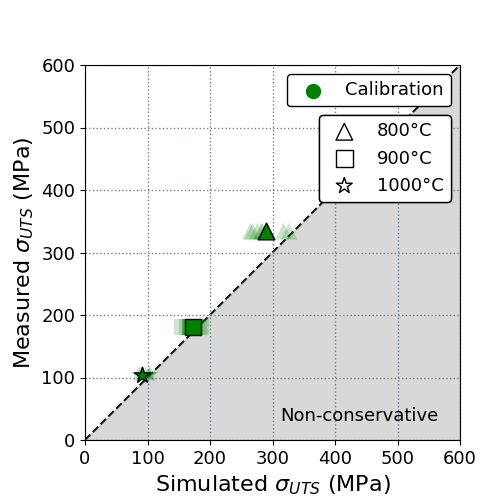
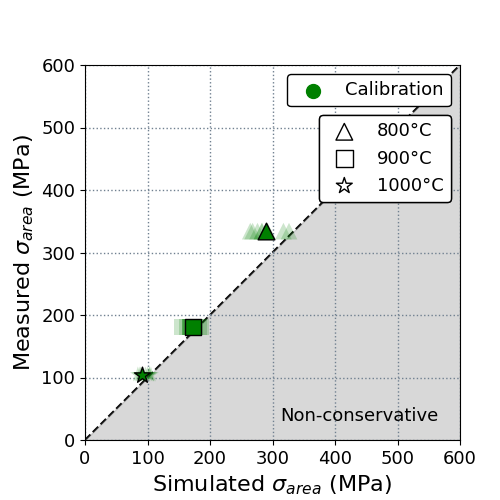
modified perf scripts to include area

Changed region(s): [[0.3, 0.93, 0.78, 0.99], [0.03, 0.27, 0.09, 0.75]]

diff --git a/scripts/__other__/performance/plot_perf.py b/scripts/__other__/performance/plot_perf.py
@@ -21,20 +21,20 @@ from params import *
 # Constants
 LABEL_FONTSIZE = 16
 OTHER_FONTSIZE = 13
-MARKER_SIZE  = 12
-LINEWIDTH    = 1
-TRANSPARENCY = 0.2
-DATA_PATH    = "../../data"
+MARKER_SIZE    = 12
+LINEWIDTH      = 1
+TRANSPARENCY   = 0.2
+DATA_PATH      = "../../data"
 
 # Option
 OPTION = [
-    {"name": "cr_strain",   "info": r"$\bar{\epsilon}$ (mm/mm)",     "handle": lambda x : get_avg(x, "creep", "time", "strain"),      "limits": (0, 0.35)},
+    {"name": "cr_strain",   "info": r"$\epsilon_{area}$ (h)",        "handle": lambda x : get_area(x, "creep", "time", "strain"),     "limits": (0, 2000)},
     {"name": "cr_min_rate", "info": r"$\dot{\epsilon}_{min}$ (1/h)", "handle": lambda x : get_min_rate(x, "creep", "time", "strain"), "limits": (0, 5e-4)},
     {"name": "cr_time_f",   "info": r"$t_f$ (h)",                    "handle": lambda x : get_max(x, "creep", "time"),                "limits": (0, 12000)},
     {"name": "cr_strain_f", "info": r"$\epsilon_f$ (mm/mm)",         "handle": lambda x : get_max(x, "creep", "strain"),              "limits": (0, 1.0)},
-    {"name": "ts_stress",   "info": r"$\sigma_{UTS}$ (MPa)",         "handle": lambda x : get_max(x, "tensile", "stress"),            "limits": (0, 600)},
-    {"name": "ts_yield",    "info": r"$\bar{\sigma}$ (MPa)",         "handle": lambda x : get_avg(x, "tensile", "strain", "stress"),  "limits": (0, 600)},
-    {"name": "ts_uts",      "info": r"$\sigma_y$ (MPa)",             "handle": lambda x : get_yield_point(x, "tensile"),              "limits": (0, 600)},
+    {"name": "ts_stress",   "info": r"$\sigma_{area}$ (MPa)",        "handle": lambda x : get_max(x, "tensile", "stress"),            "limits": (0, 600)},
+    {"name": "ts_yield",    "info": r"$\sigma_{y}$ (MPa)",           "handle": lambda x : get_area(x, "tensile", "strain", "stress"), "limits": (0, 600)},
+    {"name": "ts_uts",      "info": r"$\sigma_{UTS}$ (MPa)",         "handle": lambda x : get_yield_point(x, "tensile"),              "limits": (0, 600)},
     {"name": "ts_stress_f", "info": r"$\sigma_f$ (MPa)",             "handle": lambda x : get_end(x, "tensile", "stress"),            "limits": (0, 300)},
 ][int(sys.argv[1])]
 
@@ -214,12 +214,13 @@ def get_min_rate(results_dict:dict, data_type:str, x_label:str, y_label:str) -> 
             sim_end_list.append(sim_min_rate)
     return exp_end_list, sim_end_list
 
-# Calculates the experimental and simulated vertical values of the curve
-def get_avg(results_dict:dict, data_type:str, x_label:str, y_label:str) -> tuple:
+# Calculates the experimental and simulated area under the curve
+def get_area(results_dict:dict, data_type:str, x_label:str, y_label:str) -> tuple:
     
     # Initialise
-    exp_y_list, sim_y_list = [], []
-    
+    exp_area_list, sim_area_list = [], []
+    resolution = 1000
+
     # Iterate through experimental curves
     for title in results_dict.keys():
         exp_data = results_dict[title]["exp"]
@@ -228,27 +229,24 @@ def get_avg(results_dict:dict, data_type:str, x_label:str, y_label:str) -> tuple
 
         # Interpolate experimental curve
         exp_interpolator = Interpolator(exp_data[x_label], exp_data[y_label])
-        exp_x_end = max(exp_data[x_label])
+        exp_x_step = max(exp_data[x_label])/resolution
+        exp_x_list = [x*exp_x_step for x in range(1,resolution+1)]
+        exp_y_list = exp_interpolator.evaluate(exp_x_list)
+        exp_area = sum([exp_x_step * exp_y for exp_y in exp_y_list])
 
         # Iterate through simulations of experimental curve
         sim_data_list = results_dict[title]["sim"]
         for sim_data in sim_data_list:
-
-            # Interpolate simulated curve
             sim_interpolator = Interpolator(sim_data[x_label], sim_data[y_label])
+            sim_x_step = max(sim_data[x_label])/resolution
+            sim_x_list = [x*sim_x_step for x in range(1,resolution+1)]
+            sim_y_list = sim_interpolator.evaluate(sim_x_list)
+            sim_area = sum([sim_x_step * sim_y for sim_y in sim_y_list])
+            exp_area_list.append(exp_area)
+            sim_area_list.append(sim_area)
 
-            # Query experimental and simulated curves
-            min_x_end = min(exp_x_end, max(sim_data[x_label]))
-            x_list = list(np.linspace(0, min_x_end, 50+2))[1:-1]
-            exp_y_values = exp_interpolator.evaluate(x_list)
-            sim_y_values = sim_interpolator.evaluate(x_list)
-
-            # Add to initialised super list
-            exp_y_list.append(np.average(exp_y_values))
-            sim_y_list.append(np.average(sim_y_values))
-    
-    # Return
-    return exp_y_list, sim_y_list
+    # Return list of areas
+    return exp_area_list, sim_area_list
 
 # Calculates the experimental and simulated yield points
 def get_yield_point(results_dict:dict, data_type:str) -> tuple:
@@ -277,7 +275,7 @@ def get_yield_point(results_dict:dict, data_type:str) -> tuple:
 def get_data_points(exp_info:list, params_str:list, model) -> tuple:
     results_dict = get_sim_data(exp_info, params_str, model)
     exp_list, sim_list = OPTION["handle"](results_dict)
-    if OPTION["name"] == "cr_time_f":
+    if OPTION["name"] in ["cr_time_f", "cr_strain"]:
         exp_list = [t/3600 for t in exp_list]
         sim_list = [t/3600 for t in sim_list]
     return exp_list, sim_list
@@ -368,12 +366,19 @@ plt.ylim(OPTION["limits"])
 # Format ticks
 plt.xticks(fontsize=OTHER_FONTSIZE)
 plt.yticks(fontsize=OTHER_FONTSIZE)
-if OPTION["name"] == "cr_time_f":
+if OPTION["name"] in ["cr_strain"]:
+    plt.gca().set_xticks([0, 400, 800, 1200, 1600, 2000])
+    plt.gca().set_yticks([0, 400, 800, 1200, 1600, 2000])
+    ax.ticklabel_format(axis="x", style="sci", scilimits=(2,2))
+    ax.ticklabel_format(axis="y", style="sci", scilimits=(2,2))
+    ax.xaxis.major.formatter._useMathText = True
+    ax.yaxis.major.formatter._useMathText = True
+if OPTION["name"] in ["cr_time_f"]:
     ax.ticklabel_format(axis="x", style="sci", scilimits=(3,3))
     ax.ticklabel_format(axis="y", style="sci", scilimits=(3,3))
     ax.xaxis.major.formatter._useMathText = True
     ax.yaxis.major.formatter._useMathText = True
-if OPTION["name"] == "cr_min_rate":
+if OPTION["name"] in ["cr_min_rate"]:
     ax.ticklabel_format(axis="x", style="sci", scilimits=(-4,-4))
     ax.ticklabel_format(axis="y", style="sci", scilimits=(-4,-4))
     ax.xaxis.major.formatter._useMathText = True
